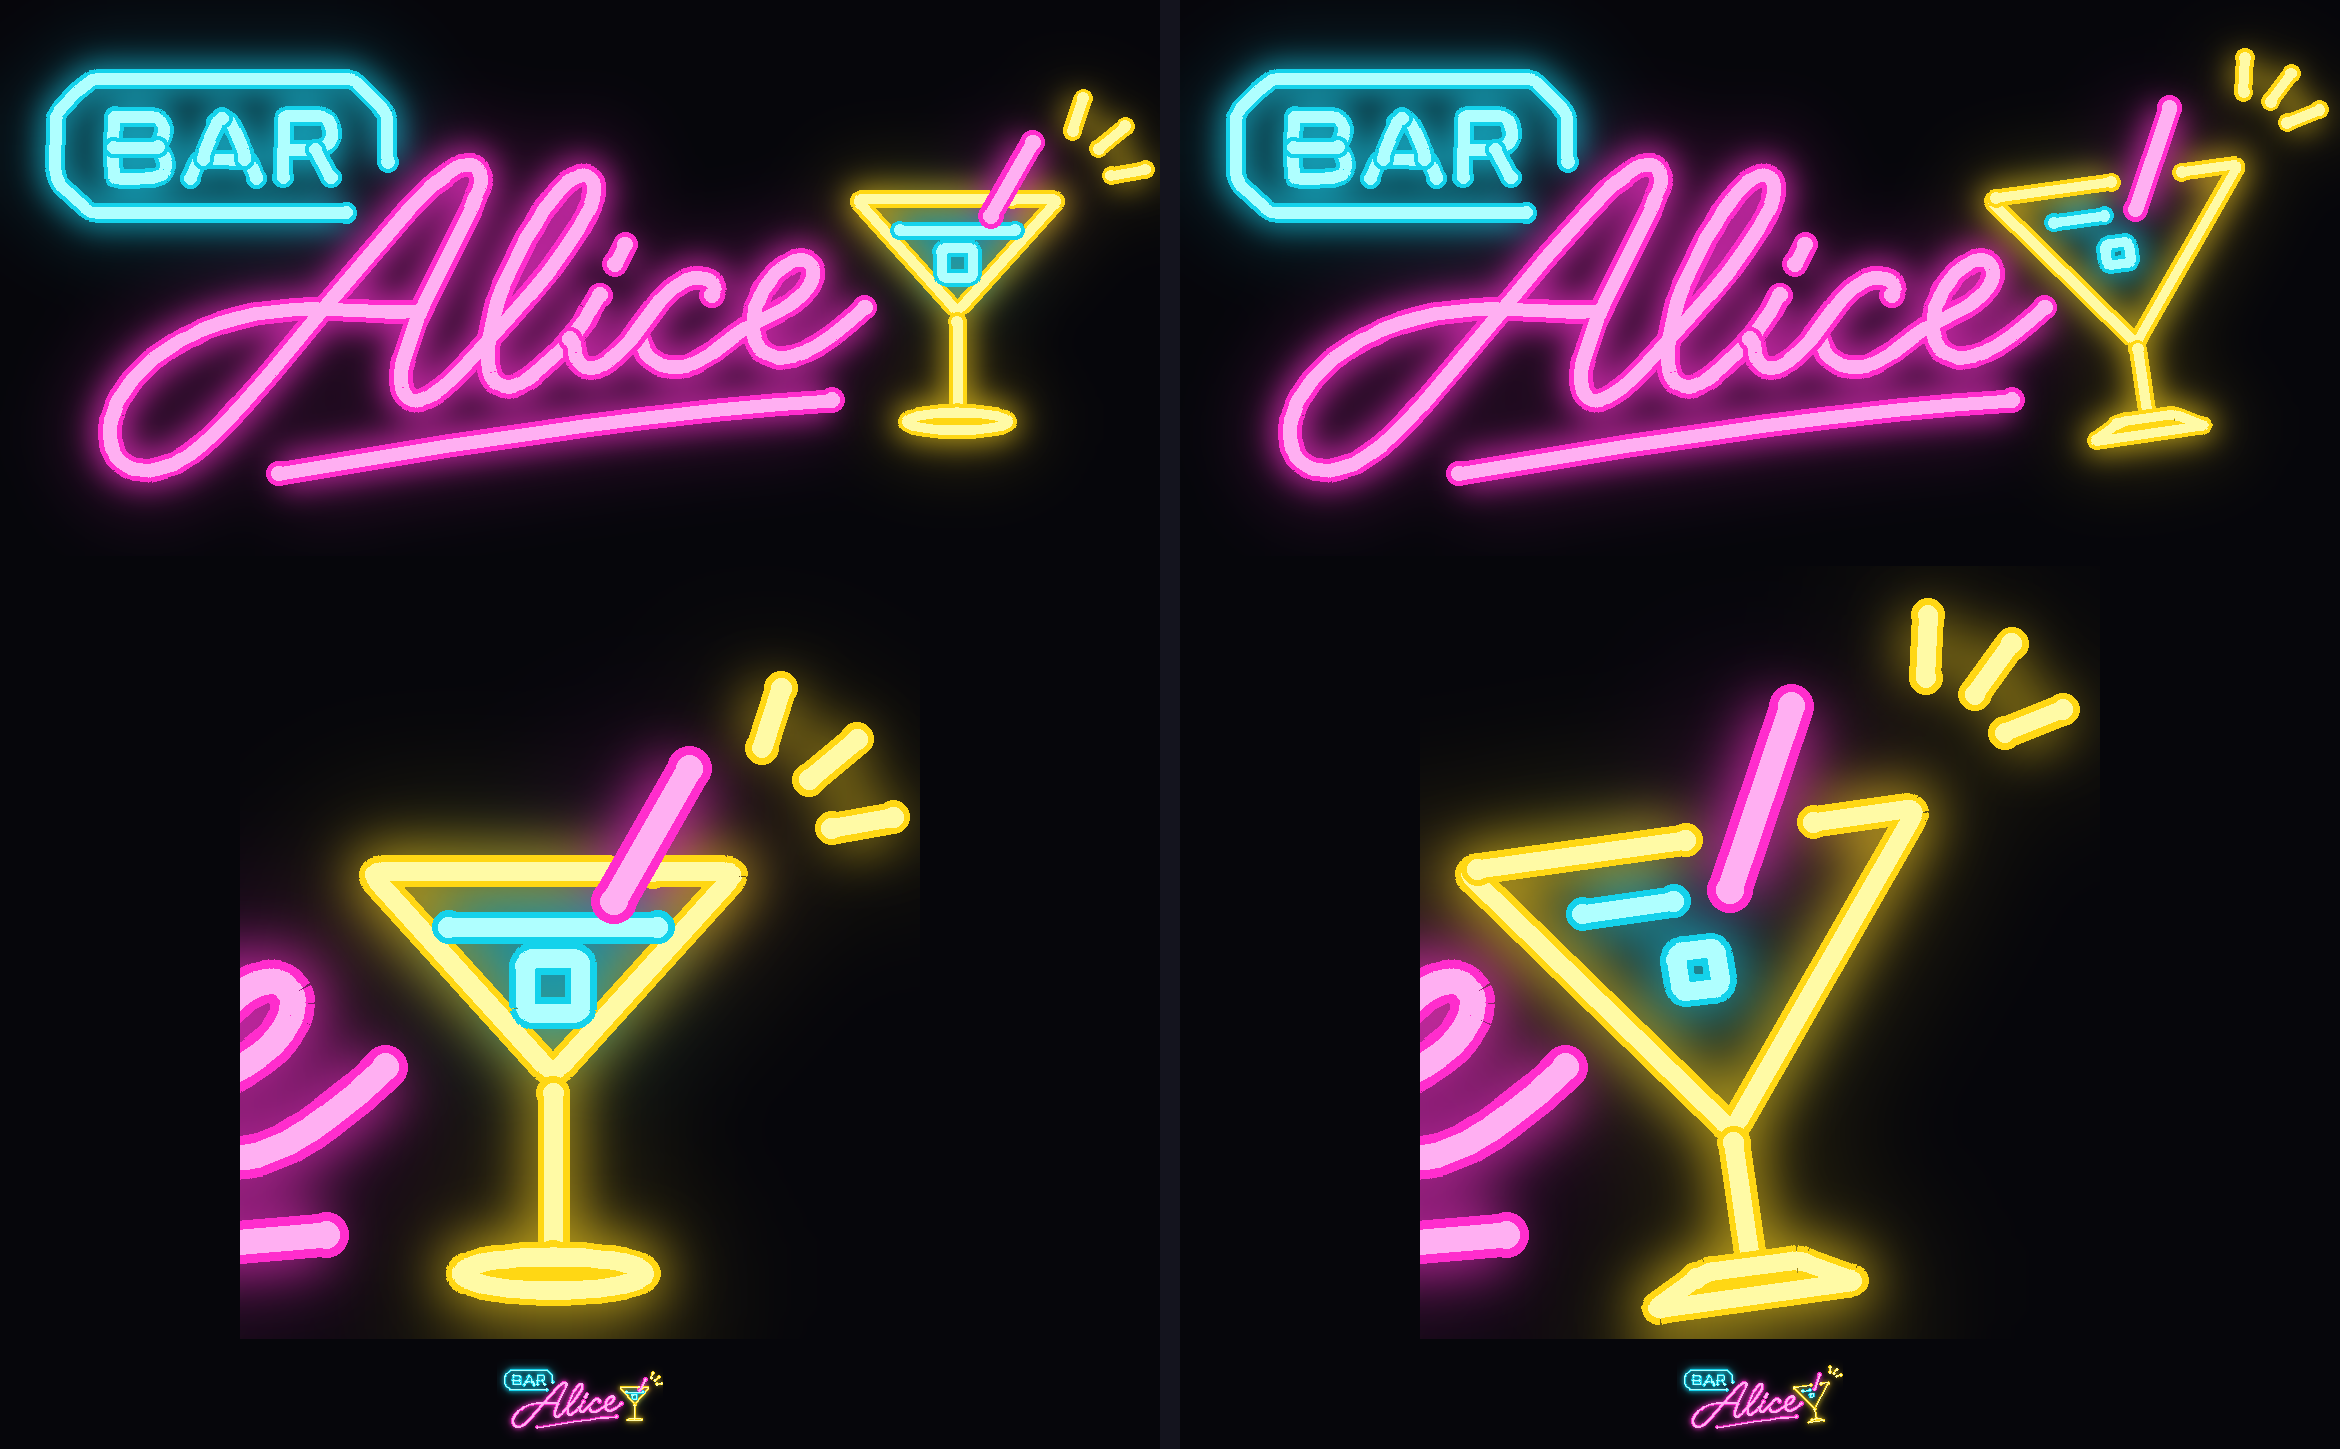
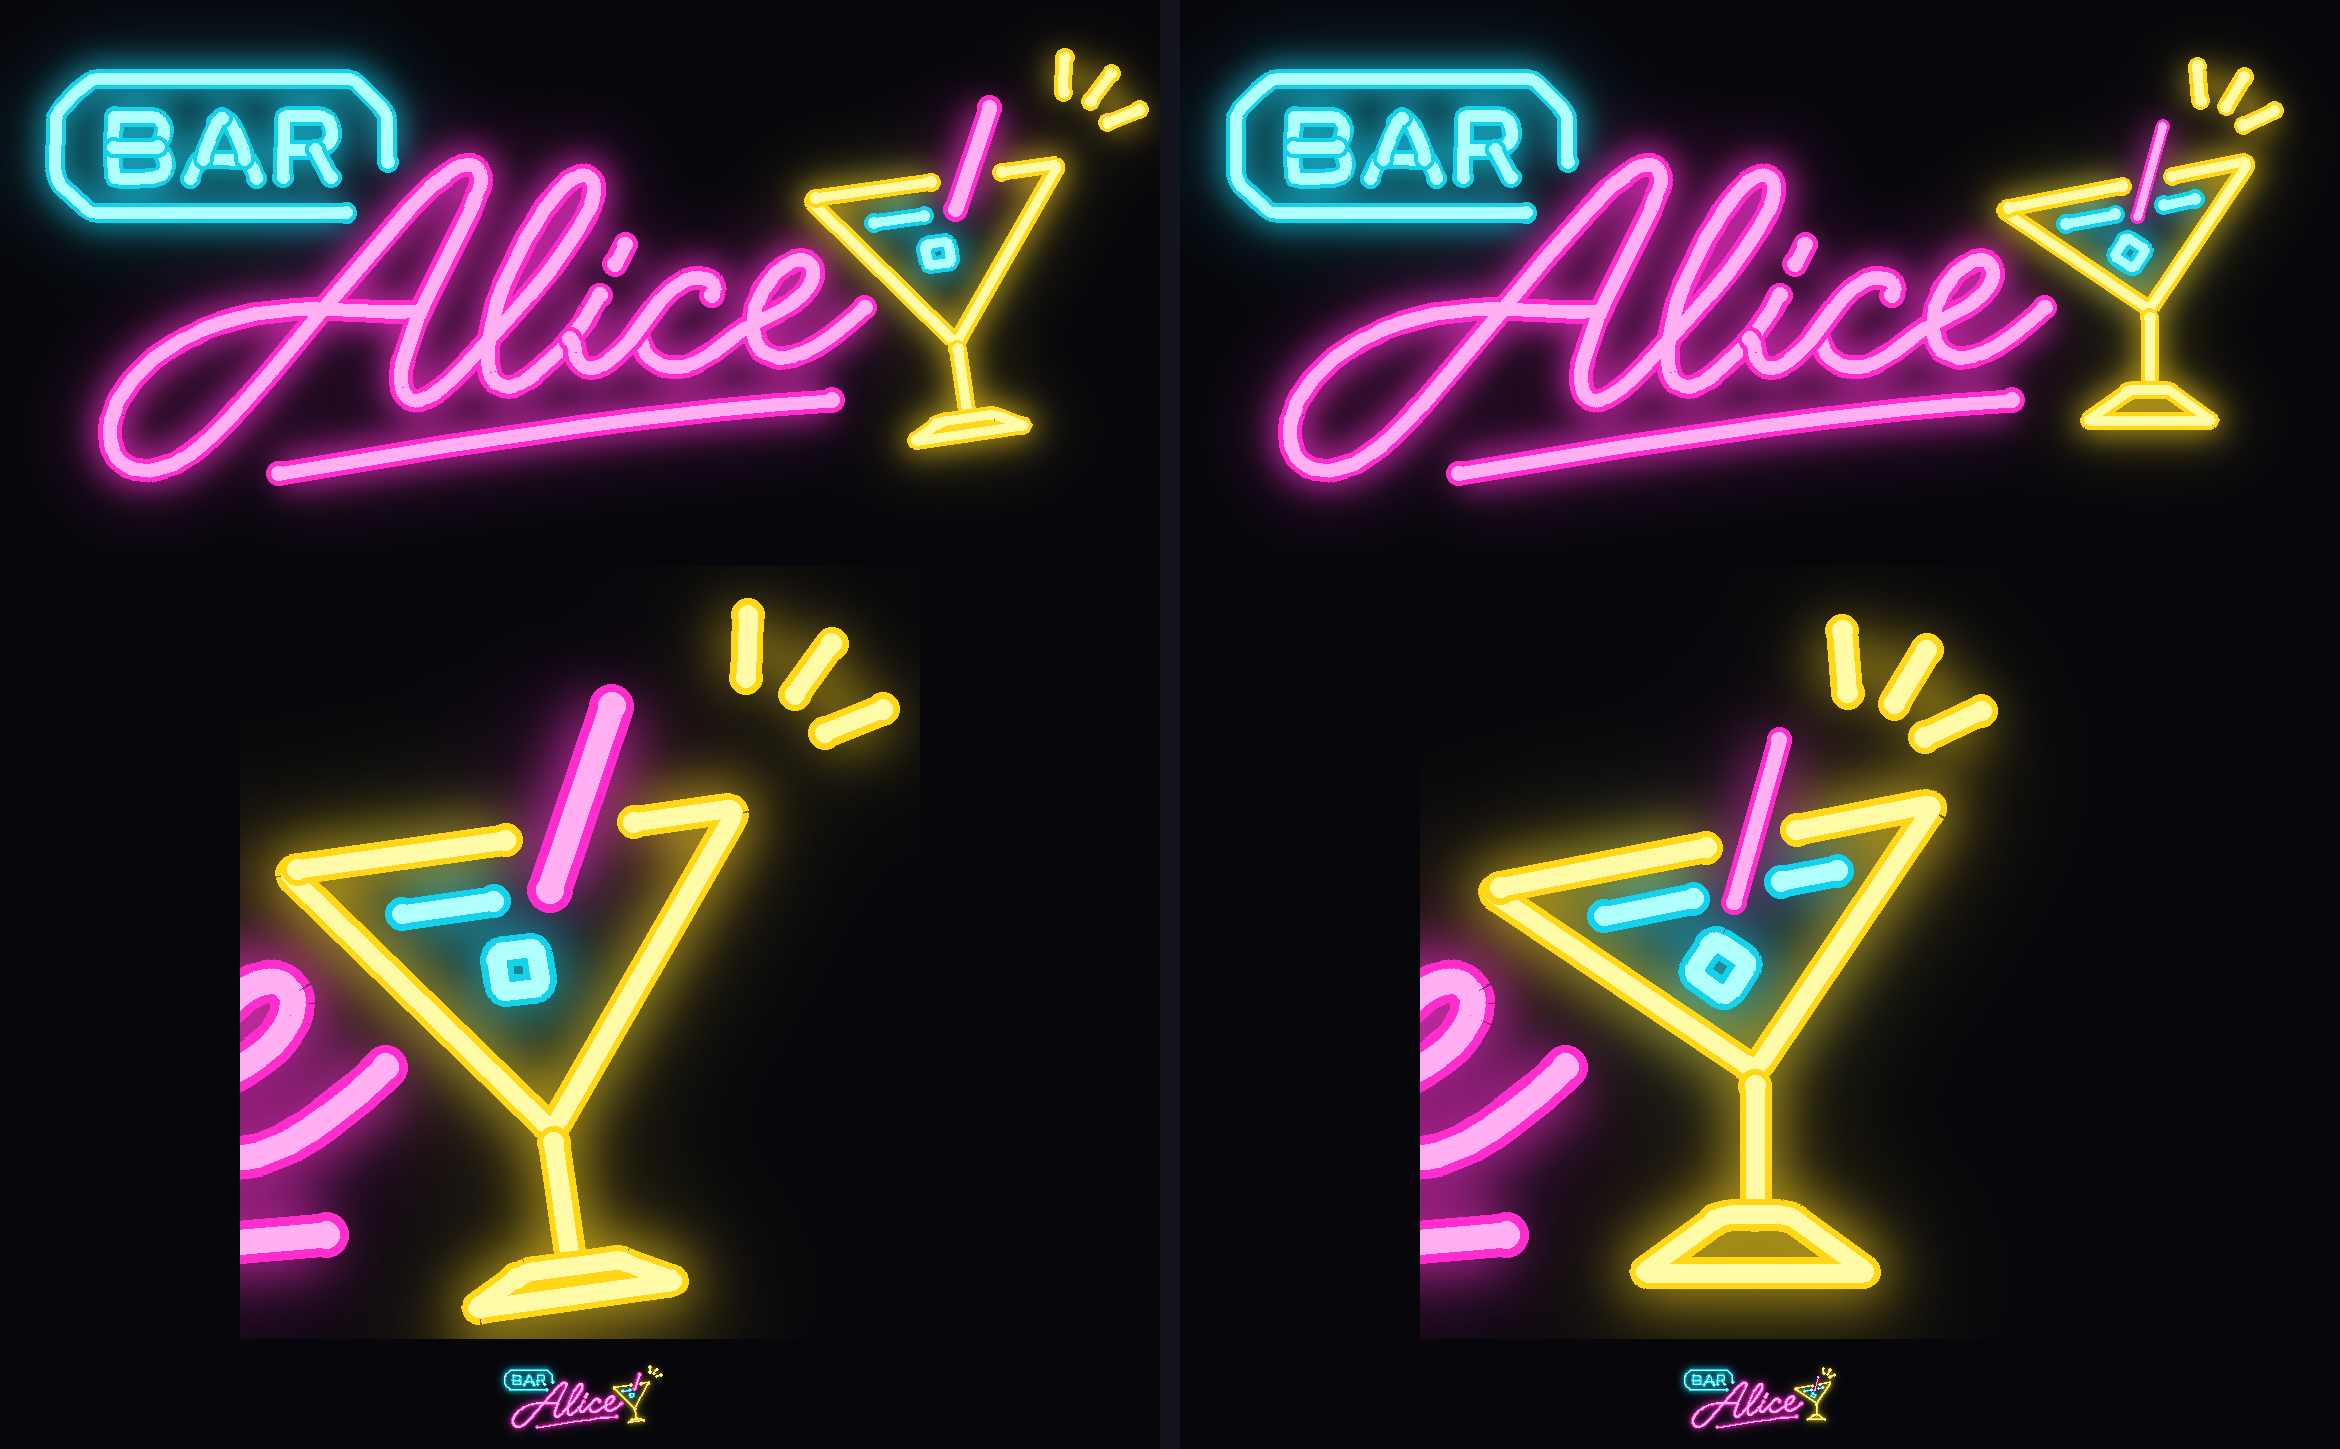
간판 마티니 잔을 인게임 시안 비율로 (D-483, #11)
Claude-Session: https://claude.ai/code/session_016SHfTH87ELRxwiryas6JFf

diff --git a/tools/ui_art/gen_title_inl.py b/tools/ui_art/gen_title_inl.py
@@ -73,12 +73,13 @@ def group(col, cx):
 
 # ---- 마티니 잔 (D-481): 따라 그린 잔 대신 손으로 설계한 선. 좌표는 원본 그림(1139 × 546) 화소
 # 곧게 선 대칭 잔: V 잔(닫힌 관 하나) · 다리 + 납작한 타원 받침(관 하나), 잔 속 하늘색 술 선 · 각얼음, 분홍 빨대, 노란 반짝 선 셋.
-# 잔 전체를 TILT 만큼 한 덩어리로 기울일 수 있다 (선 모양은 그대로 — 예전처럼 윗변만 찌그러지지 않게)
-GLASS = dict(cx=952.0, rim_y=176.0, half=124.0, apex_y=336.0, foot_y=426.0, corner=7.0)
-TILT = -8.0  # 잔 기울기 (도, + = 시계 방향). 받침 가운데를 축으로. −8° = 오른쪽이 올라감 (인게임 시안처럼, 사용자 2026-11-27)
+# 잔(V)을 TILT 만큼 한 덩어리로 기울인다 (선 모양은 그대로 — 예전처럼 윗변만 찌그러지지 않게)
+GLASS = dict(cx=952.0, rim_y=180.0, half=124.0, apex_y=304.0, foot_y=414.0, corner=7.0)  # 인게임 시안 비율: 잔 깊이 = 윗변 반폭, 다리 + 받침 = 잔 깊이 정도 (D-483)
+TILT = -11.0  # 잔 기울기 (도, + = 시계 방향). 잔 아래 꼭짓점을 축으로, 다리 · 받침은 곧게. 오른쪽이 올라감 (인게임 시안에서 잰 윗변 기울기, D-483)
 # 게임에서 보이는 관 반폭 (원본 화소): 관 굵기 × 0.8 × 1.5(시작 화면 LineK) / 2. 서로 다른 관은 반폭 합 + GAP 보다 가까이 두지 않는다 (네온 선이 붙으면 어색하다)
-HALF = {'yellow': 14.86 * 0.6, 'liquid': 14.86 * 0.6, 'straw': 20.11 * 0.6}
-GAP = 10.0
+STRAW_TUBE = 11.0  # 빨대 관 굵기 (원본 화소): 시안처럼 잔 관보다 가늘게 (색 4)
+HALF = {'yellow': 14.86 * 0.6, 'liquid': 14.86 * 0.6, 'straw': STRAW_TUBE * 0.6}
+GAP = 6.0
 
 
 def _resample(P, step=1.0):
@@ -159,44 +160,42 @@ def martini(tilt=None):
     wall = lambda y: h * (ay - y) / (ay - ry)  # 높이 y 에서 잔 벽(가운데 선)까지 반폭
     cosw = (ay - ry) / math.hypot(h, ay - ry)   # 벽과 수평 거리 → 수직 거리
     need = lambda a, b: HALF[a] + HALF[b] + GAP
-    # 빨대: 오른쪽 위 잔 밖에서 비스듬히 들어와 술 선을 지나 얼음 오른쪽 위에서 끝난다
-    sx, sk, se = cx + 32.0, 0.5, 30.0  # 윗변을 지나는 x, 기울기(dx/dy), 잔 속 길이
-    straw = [(sx + sk * 64.0, ry - 64.0), (sx - sk * se, ry + se)]
+    # 빨대 (시안): 윗변 가운데보다 조금 오른쪽을 가파르게 지나 술 선 아래에서 끝난다
+    sx, sk = cx + 22.0, 0.5  # 윗변을 지나는 x, 기울기(dx/dy)
+    straw = [(sx + sk * 50.0, ry - 50.0), (sx - sk * 32.0, ry + 32.0)]  # 술 선 틈에서 끝난다 (얼음과 띄움)
     # V 잔: 윗변 · 두 벽을 한 관으로 (모서리는 작게 구부림), 빨대 자리만 끊는다
     bowl = _round([(cx - h, ry), (cx, ay), (cx + h, ry)], g['corner'], True)
-    # 닫힌 관을 윗변 가운데에서 열어 한 줄로 (끊는 자리가 윗변 위에 오게)
-    k = min(range(len(bowl) - 1), key=lambda q: abs(bowl[q][0] - cx) + abs(bowl[q][1] - ry) * 10)
+    k = min(range(len(bowl) - 1), key=lambda q: abs(bowl[q][0] - cx) + abs(bowl[q][1] - ry) * 10)  # 닫힌 관을 윗변 가운데에서 열기
     ring = bowl[k:-1] + bowl[:k + 1]
     out = [('yellow', P) for P in _cut(ring, straw, need('yellow', 'straw'))]
-    # 술 선: 윗변과 나란히, 벽과 노랑-하늘 간격만큼 띄움. 빨대 자리는 끊는다
-    ly = ry + need('yellow', 'liquid') + 4.0
+    # 술 선 (시안): 윗변 바로 아래 나란히, 잔 폭을 거의 다 채우되 벽과는 띄운다. 빨대 자리는 끊는다
+    ly = ry + need('yellow', 'liquid') + 2.0
     lw = wall(ly) - need('yellow', 'liquid') / cosw
     out += [('liquid', P) for P in _cut([(cx - lw, ly), (cx + lw, ly)], straw, need('liquid', 'straw'))]
-    # 각얼음: 윗변과 나란한 정사각형 (모서리 둥글게). 술 선 아래 · 벽 · 빨대와 띄우고, 빨대 반대쪽(왼쪽)으로 조금
-    s = 11.0
-    iy = ly + need('liquid', 'liquid') + s
-    ix = cx - 6.0
-    out.append(('liquid', _round([(ix - s, iy - s), (ix + s, iy - s), (ix + s, iy + s), (ix - s, iy + s)], 4.0, True)))
+    # 얼음 (시안): 술 선 바로 아래 가운데 마름모 (윗변 기준 45° 돌린 정사각형, 모서리 둥글게)
+    d, ix = 16.0, cx - 8.0
+    iy = ly + need('liquid', 'liquid') + d
+    out.append(('liquid', _round([(ix, iy - d), (ix + d, iy), (ix, iy + d), (ix - d, iy)], 4.0, True)))
     out.append(('straw', straw))
-    # 다리 + 받침: 꼭짓점에서 조금 띄워 내려와 받침(납작한 사다리꼴, 인게임 시안처럼) 윗변 가운데에 닿는다
-    fy = g['foot_y']
-    out.append(('yellow', [(cx, ay + 6.0), (cx, fy - 16.0)]))
-    out.append(('yellow', _round([(cx - 26.0, fy - 16.0), (cx + 26.0, fy - 16.0), (cx + 56.0, fy), (cx - 56.0, fy)], 5.0, True)))
-    # 반짝 선 셋: 잔 오른쪽 위 한 점에서 퍼지는 같은 길이 선
-    sc = (cx + h + 6.0, ry - 22.0)
-    for a in (-80.0, -46.0, -14.0):
+    # 반짝 선 셋 (시안): 잔 오른쪽 위, 빨대 위끝 너머에서 퍼지는 짧은 선
+    sc = (cx + 84.0, ry - 26.0)
+    for a in (-84.0, -48.0, -14.0):
         c, sn = math.cos(math.radians(a)), math.sin(math.radians(a))
-        out.append(('yellow', [(sc[0] + c * 48.0, sc[1] + sn * 48.0), (sc[0] + c * 82.0, sc[1] + sn * 82.0)]))
+        out.append(('yellow', [(sc[0] + c * 42.0, sc[1] + sn * 42.0), (sc[0] + c * 76.0, sc[1] + sn * 76.0)]))
+    # 기울이기 (시안): 잔(V · 술 · 얼음 · 빨대 · 반짝)만 아래 꼭짓점을 축으로 돌리고, 다리 · 받침은 곧게 둔다
     tilt = TILT if tilt is None else tilt
     if tilt:
         r = math.radians(tilt); cr, sr = math.cos(r), math.sin(r)
-        px, py = cx, fy
-        out = [(c, [(px + (x - px) * cr - (y - py) * sr, py + (x - px) * sr + (y - py) * cr) for x, y in P]) for c, P in out]
+        out = [(c, [(cx + (x - cx) * cr - (y - ay) * sr, ay + (x - cx) * sr + (y - ay) * cr) for x, y in P]) for c, P in out]
+    # 다리 + 받침 (시안): 꼭짓점에서 곧게 내려와 받침 윗변 가운데에 닿는다. 받침은 위가 좁고 아래가 넓은 납작한 사다리꼴
+    fy = g['foot_y']
+    out.append(('yellow', [(cx, ay + 8.0), (cx, fy - 32.0)]))
+    out.append(('yellow', _round([(cx - 18.0, fy - 32.0), (cx + 18.0, fy - 32.0), (cx + 62.0, fy), (cx - 62.0, fy)], 5.0, True)))
     return out
 
 
 def strokes(tilt=None):
-    """(색 번호, 묶음, 점 목록, 열린 끝 A, 열린 끝 B) 목록. 색: 0 하늘 1 분홍 2 노랑 3 잔 속 하늘"""
+    """(색 번호, 묶음, 점 목록, 열린 끝 A, 열린 끝 B) 목록. 색: 0 하늘 1 분홍 2 노랑 3 잔 속 하늘 4 빨대(가는 분홍)"""
     J = json.load(open(SRC))
     res = []
     for ci, col in enumerate(COLS):
@@ -211,7 +210,7 @@ def strokes(tilt=None):
             res.append((ci, group(col, cx), P, st['free'][0], st['free'][1]))
     for c, P in martini(tilt):
         closed = math.dist(P[0], P[-1]) < 0.5
-        ci, grp = (2, 0) if c == 'yellow' else (3, 0) if c == 'liquid' else (1, 4)  # 빨대는 분홍, 깜빡임 묶음은 예전처럼 e
+        ci, grp = (2, 0) if c == 'yellow' else (3, 0) if c == 'liquid' else (4, 0)  # 4 = 빨대 (가는 분홍, 밝기는 잔 CB)
         res.append((ci, grp, P, not closed, not closed))
     return res
 
@@ -221,7 +220,7 @@ def main():
     lines = ['// 자동 생성 (tools/ui_art/gen_title_inl.py, D-440): 시작 화면 BAR Alice 간판 — 원본 그림에서 따라 그린 네온 획. 손으로 고치지 말 것',
              '#pragma once', '', 'namespace PDTitleLogo', '{',
              '\tconstexpr float SrcW = %.1ff, SrcH = %.1ff;' % tuple(J['size']),
-             '\tconstexpr float Tube[4] = {%s, %.2ff}; // 관 굵기 (원본 화소, 하늘 · 분홍 · 노랑 · 잔 속 하늘 = 노랑 굵기)' % (', '.join('%.2ff' % J['tube'][c] for c in COLS), J['tube']['yellow']),
+             '\tconstexpr float Tube[5] = {%s, %.2ff, %.2ff}; // 관 굵기 (원본 화소, 하늘 · 분홍 · 노랑 · 잔 속 하늘 = 노랑 굵기 · 빨대)' % (', '.join('%.2ff' % J['tube'][c] for c in COLS), J['tube']['yellow'], STRAW_TUBE),
              '\tstruct FStroke { int32 Color, Group, N; bool bFreeA, bFreeB; const float* P; };']
     arrays, entries = [], []
     for k, (ci, grp, P, fa, fb) in enumerate(strokes()):

diff --git a/Source/ProjectB/PDBoardPaint.cpp b/Source/ProjectB/PDBoardPaint.cpp
@@ -2982,8 +2982,8 @@ void SPDBoardWidget::PaintAliceSign(FCanvas& C, float TX, float TY, float TW, co
 	const FVector2f Piv(TX + TW / 2.f, TY + PDTitleLogo::SrcH * K / 2.f);
 	const float Ca = FMath::Cos(FMath::DegreesToRadians(AngleDeg)), Sa = FMath::Sin(FMath::DegreesToRadians(AngleDeg));
 	auto Rot = [&](FVector2f V) { if (AngleDeg == 0.f) return V; const FVector2f D = V - Piv; return Piv + FVector2f(D.X * Ca - D.Y * Sa, D.X * Sa + D.Y * Ca); };
-	static const TCHAR* Edge[4] = {TEXT("14d2eb"), TEXT("ff2dcd"), TEXT("ffd714"), TEXT("14d2eb")}; // 원본에서 잰 관 바깥 테. 3 = 잔 속 술 · 올리브 (D-472, 하늘)
-	static const TCHAR* Core[4] = {TEXT("afffff"), TEXT("ffaff2"), TEXT("fffaa5"), TEXT("afffff")}; // 관 가운데 파스텔
+	static const TCHAR* Edge[5] = {TEXT("14d2eb"), TEXT("ff2dcd"), TEXT("ffd714"), TEXT("14d2eb"), TEXT("ff2dcd")}; // 원본에서 잰 관 바깥 테. 3 = 잔 속 술 · 얼음 (D-472, 하늘), 4 = 잔 빨대 (가는 분홍, 밝기는 잔 CB, D-483)
+	static const TCHAR* Core[5] = {TEXT("afffff"), TEXT("ffaff2"), TEXT("fffaa5"), TEXT("afffff"), TEXT("ffaff2")}; // 관 가운데 파스텔
 	// 관 번짐 (D-446 · D-452): 둥근 빛을 선을 따라 촘촘히 (띠 스프라이트는 끝 · 꺾임 이음매가 점선 빛 줄로 삐져나갔다)
 	const bool bTitle = Wall > 0.f; // 시작 화면: 번짐 넓게 (D-464), 관 선 1.5배 (D-465). 인게임 배지는 그대로
 	const float LineK = bTitle ? 1.5f : 1.f;

diff --git a/tools/neon/title_glass_mock.py b/tools/neon/title_glass_mock.py
@@ -19,9 +19,9 @@ ROOT = os.path.join(os.path.dirname(__file__), '..', '..')
 sys.path.insert(0, os.path.join(ROOT, 'tools', 'ui_art'))
 import gen_title_inl as G  # noqa: E402
 
-EDGE = [(0x14, 0xd2, 0xeb), (0xff, 0x2d, 0xcd), (0xff, 0xd7, 0x14), (0x14, 0xd2, 0xeb)]
-CORE = [(0xaf, 0xff, 0xff), (0xff, 0xaf, 0xf2), (0xff, 0xfa, 0xa5), (0xaf, 0xff, 0xff)]
-TUBE = [16.62, 20.11, 14.86, 14.86]
+EDGE = [(0x14, 0xd2, 0xeb), (0xff, 0x2d, 0xcd), (0xff, 0xd7, 0x14), (0x14, 0xd2, 0xeb), (0xff, 0x2d, 0xcd)]
+CORE = [(0xaf, 0xff, 0xff), (0xff, 0xaf, 0xf2), (0xff, 0xfa, 0xa5), (0xaf, 0xff, 0xff), (0xff, 0xaf, 0xf2)]
+TUBE = [16.62, 20.11, 14.86, 14.86, G.STRAW_TUBE]
 SRC_W, SRC_H = 1139.0, 546.0
 BG = (6, 6, 11)
 

diff --git a/DOC/adr/D-483-sign-martini-mockup-ratio.md b/DOC/adr/D-483-sign-martini-mockup-ratio.md
@@ -1,0 +1,22 @@
+# D-483. 간판 마티니 잔을 인게임 시안 비율로
+
+- 날짜: 2026-11-27
+- 상태: 확정
+- 이슈: #11
+- 대체: D-482 의 잔 크기 · 기울기 축 · 받침 · 빨대 굵기 · 술 선 · 얼음 (관끼리 띄우는 규칙은 그대로, 간격 10 → 6)
+
+## 결정
+인게임 시안(`DOC/assets/images/ui-1120/reference.webp` 왼쪽 위 로고, 시안 화소 x 128 ~ 184, y 20 ~ 92)을 12배로 재서 비율을 옮긴다.
+- 잔: 얕은 V (깊이 = 윗변 반폭 124). 잔만 −11° 기울이고 (아래 꼭짓점 축), 다리 · 받침은 곧게 선다
+- 다리 + 받침: 꼭짓점에서 곧게 내려와 위가 좁고(36) 아래가 넓은(124) 사다리꼴 받침 (높이 32)
+- 빨대: 잔 관보다 가는 분홍 (굵기 11, 새 색 4 — 밝기는 잔 CB, `PaintAliceSign` Edge · Core 5칸), 윗변 가운데 조금 오른쪽을 가파르게 지나 술 선 틈에서 끝난다
+- 술 선: 윗변 바로 아래 잔 폭을 거의 채우고, 빨대 자리만 끊어 양쪽에 남긴다
+- 얼음: 술 선 아래 가운데 마름모
+- 서로 다른 색 관 간격 = 반폭 합 + 6 (D-482 의 10 은 잔 속이 시안보다 비어 보였다)
+- 비교 그림: `/mnt/project-files/neon-cocktail/glass_vs_mockup.png` 와 `DOC/assets/images/title-wall/glass_redraw.png`
+
+## 이유
+사용자: 시안(인게임 로고 그림)이랑 다르다. D-482 는 잔이 깊고 빨대가 굵어 잔 속이 좁았고, 받침까지 통째로 기울어 시안과 달랐다.
+
+## 대안
+- 시안처럼 선을 겹치기: 사용자가 겹치지 않게 하라고 했다 (D-482)

diff --git a/DOC/adr/README.md b/DOC/adr/README.md
@@ -27,4 +27,5 @@
 | D-479 | [저장소를 DOC/ 구조로 정리](D-479-repo-structure.md) | 확정 |
 | D-480 | [방울 멈춤을 둔화와 따로 둔다](D-480-bell-stop-separate.md) | 확정 |
 | D-481 | [간판 마티니 잔을 손으로 설계한 선으로 다시 그린다](D-481-sign-martini-redraw.md) | 일부 대체 (D-482) |
-| D-482 | [간판 마티니 잔: −8° 기울이고 관끼리 띄운다](D-482-sign-martini-tilt-gaps.md) | 확정 |
+| D-482 | [간판 마티니 잔: −8° 기울이고 관끼리 띄운다](D-482-sign-martini-tilt-gaps.md) | 일부 대체 (D-483) |
+| D-483 | [간판 마티니 잔을 인게임 시안 비율로](D-483-sign-martini-mockup-ratio.md) | 확정 |

diff --git a/DOC/adr/D-482-sign-martini-tilt-gaps.md b/DOC/adr/D-482-sign-martini-tilt-gaps.md
@@ -1,7 +1,7 @@
 # D-482. 간판 마티니 잔: −8° 기울이고 관끼리 띄운다
 
 - 날짜: 2026-11-27
-- 상태: 확정
+- 상태: 일부 대체 (D-483: 잔 비율 · 기울기 축 · 빨대 · 간격)
 - 이슈: #9
 - 대체: D-481 의 기울기 0° · 잔 크기 · 잔 속 배치
 
